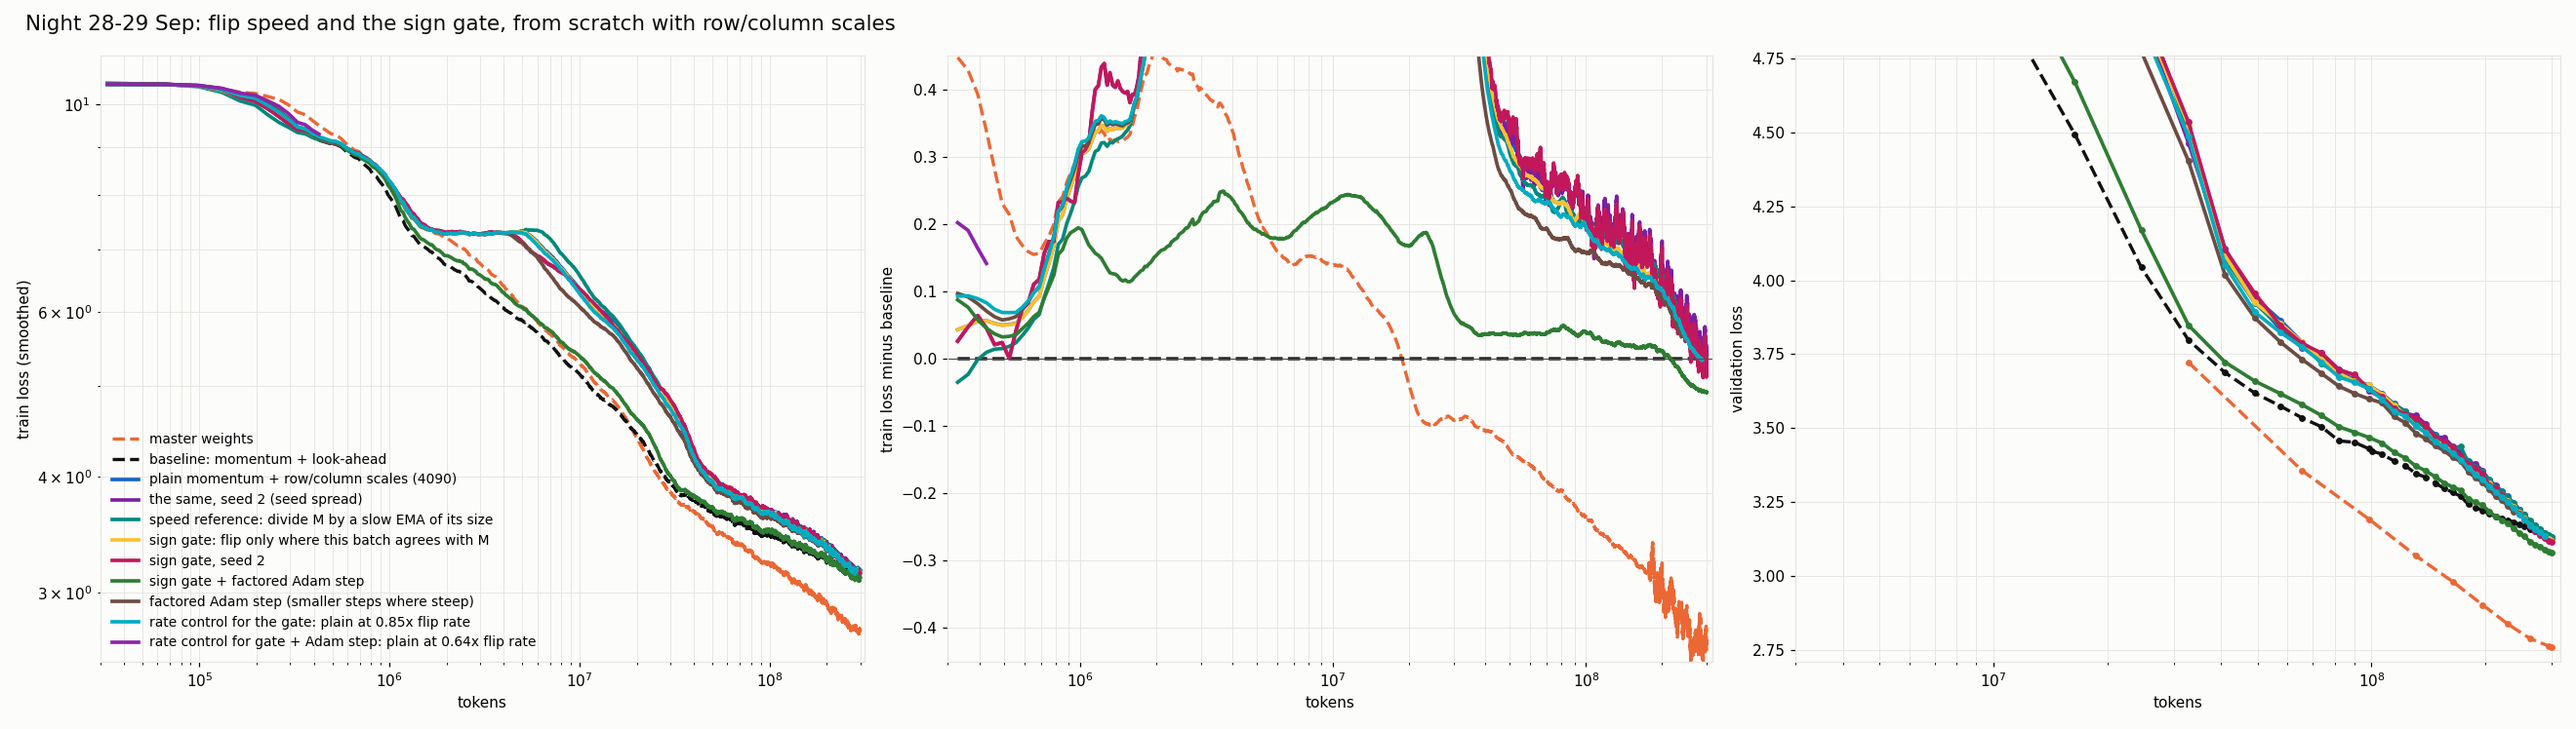
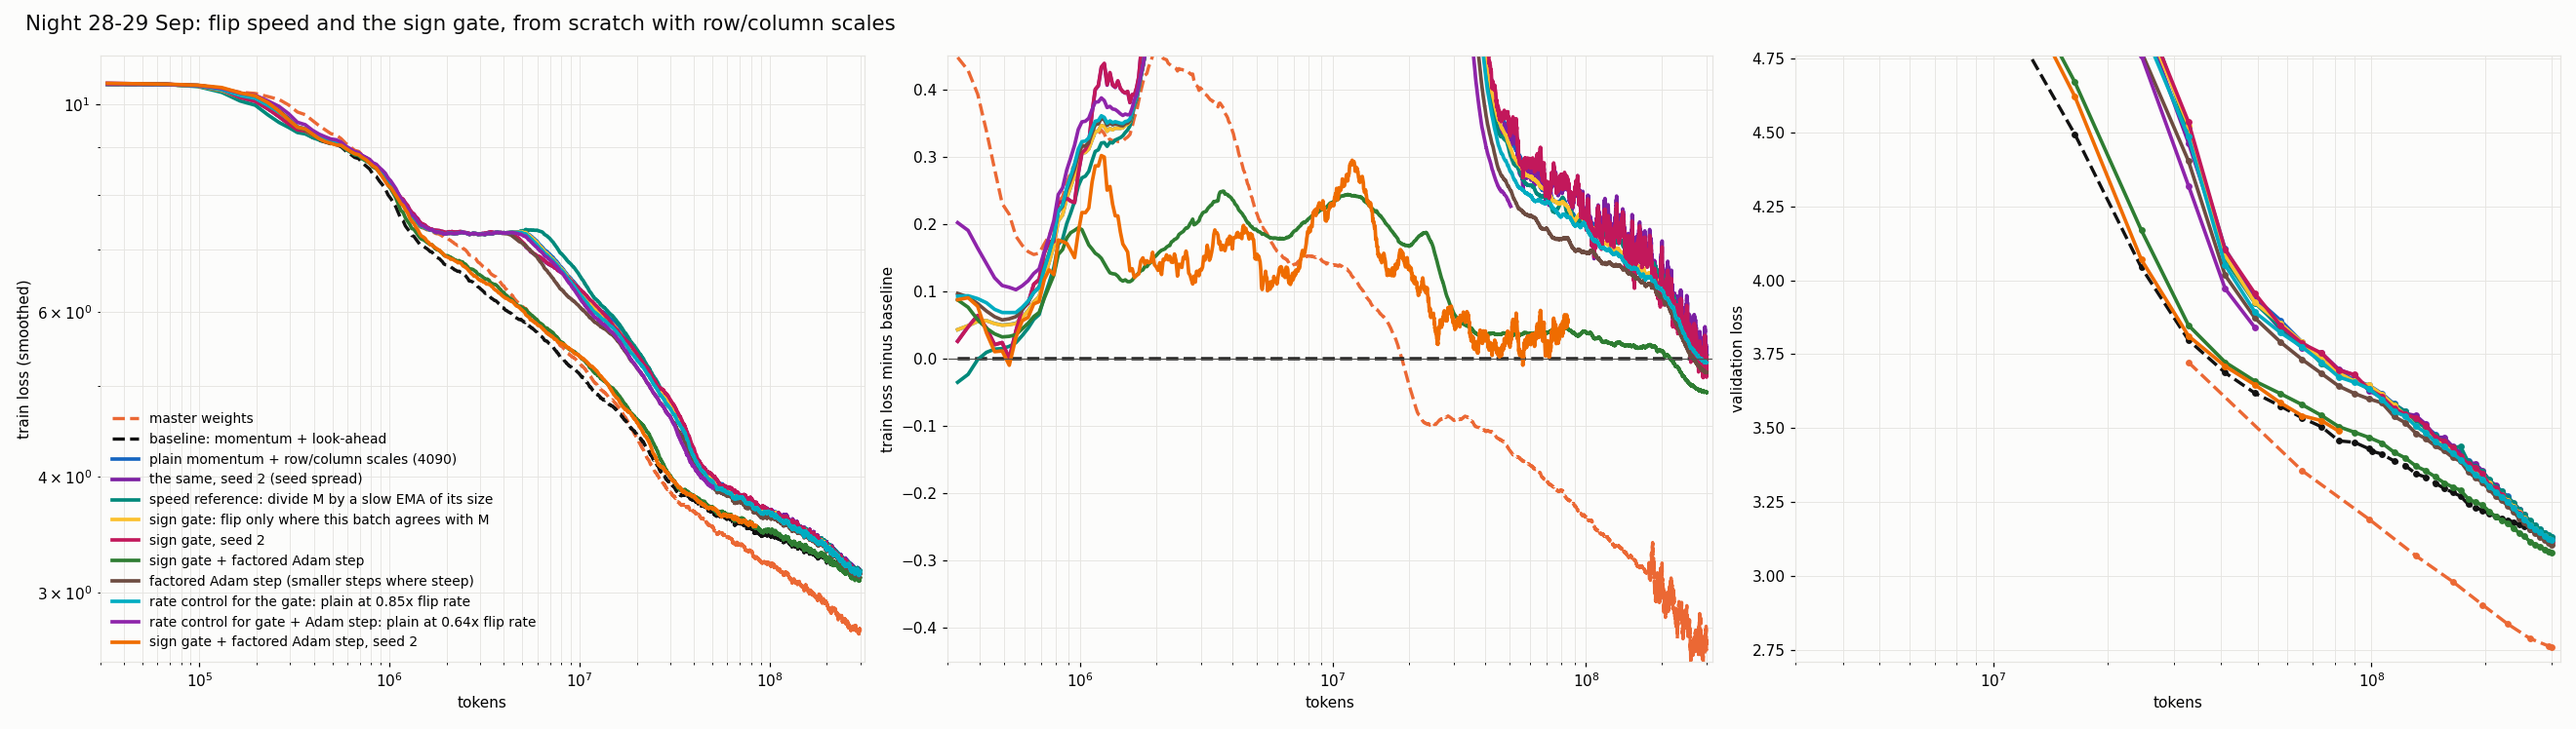
Night summary: Adam step 3.1063 at equal flips (real gain); gate = its rate control; gate+Adam 3.0773, controls running

diff --git a/docs/overview/index.html b/docs/overview/index.html
@@ -129,7 +129,7 @@ ul.plain{margin:0; padding-left:18px; display:flex; flex-direction:column; gap:4
 <div class="wrap">
 
 <header style="display:flex;flex-direction:column;gap:10px">
-  <span class="eyebrow">ternary-LLM · 110M model · wiki32k · updated 29 Sep 2026, 09:30</span>
+  <span class="eyebrow">ternary-LLM · 110M model · wiki32k · updated 29 Sep 2026, 10:45</span>
   <h1>Ternary Training Map</h1>
   <p class="lede">Training a model whose weights are only <span class="trits">{−1, 0, +1}</span> with no full-precision copy of them (optimizer state at most sublinear in parameter count). What we tried, what it showed, what is running, what we have not tried and what is still open.</p>
 </header>
@@ -142,7 +142,8 @@ ul.plain{margin:0; padding-left:18px; display:flex; flex-direction:column; gap:4
     <div class="best"><span class="v">2.9925</span><span class="l">ours, best: look-ahead + additive r16 + adapter weight decay + per-head temperature</span></div>
     <div><span class="v">3.082</span><span class="l">look-ahead + additive r4</span></div>
     <div><span class="v">3.077</span><span class="l"><b>no look-ahead, sign gate + factored Adam step + row/column scales</b> (from scratch; stateless-sublinear; rate control running)</span></div>
-    <div><span class="v">3.119</span><span class="l">no look-ahead, sign gate + row/column scales (from scratch; plain + scales 3.131, seed 2 3.127)</span></div>
+    <div><span class="v">3.106</span><span class="l">no look-ahead, factored Adam step + row/column scales (same flip count as plain: a real per-flip gain)</span></div>
+    <div><span class="v">3.117</span><span class="l">sign gate (2 seeds) = its rate control at 0.85× flips (3.121): the gate's gain is its lower flip count</span></div>
     <div><span class="v">3.111</span><span class="l">look-ahead on to 30M, off to 131M, on after</span></div>
     <div><span class="v">3.120</span><span class="l">no look-ahead, your momentum design (branch from 131M)</span></div>
     <div><span class="v">3.127</span><span class="l">baseline: momentum + look-ahead</span></div>
@@ -156,10 +157,10 @@ ul.plain{margin:0; padding-left:18px; display:flex; flex-direction:column; gap:4
   <h2>What is running where</h2>
   <div class="tbl"><table>
     <tr><th>machine</th><th>run</th><th>what</th><th>expected</th></tr>
-    <tr><td>4090</td><td class="mono">vnorm_rc_s0 → gatevnorm_rc_s0_seed2</td><td>gate + Adam step finished <b>3.0773</b>. Adam step alone: 3.235 vs 3.268 for rc_s0 at 229M. Then gate + Adam step, seed 2</td><td class="num">~09:50, ~12:15</td></tr>
-    <tr><td>pintail</td><td class="mono">rate085_rc_s0</td><td>the gate's rate control (plain at 0.85× flips): <b>level with the gate</b> (3.1468 vs 3.1459 at 279M; rc_s0 3.1580). The gate's gain looks like its lower flip count</td><td class="num">~09:45</td></tr>
-    <tr><td>shoveler</td><td class="mono">rate064_rc_s0</td><td>gate seed 2 finished <b>3.1138</b> (seed 0 3.1194). Now gate + Adam step's rate control (plain at 0.64× flips)</td><td class="num">~13:10</td></tr>
-    <tr><td>laptop</td><td class="mono">probes</td><td>gate run @5000: <b>no swing</b> inside training (lags all positive; momentum vs next gradient −0.04 to −0.07 vs −0.15 to −0.20 without the gate). Now rc_s0 @5000 and gate + Adam step @5000 with the per-weight analysis</td><td class="num">~09:10, ~10:30</td></tr>
+    <tr><td>4090</td><td class="mono">gatevnorm_rc_s0_seed2</td><td>Adam step alone finished <b>3.1063</b> at 0.98× flips. Now gate + Adam step, seed 2 (3.489 vs 3.504 seed 0 at 82M)</td><td class="num">~12:30</td></tr>
+    <tr><td>pintail</td><td class="mono">vnorm064_rc_s0</td><td>the Adam step at gate + Adam step's 0.64× flip count, without the gate: does the gate add anything?</td><td class="num">~14:20</td></tr>
+    <tr><td>shoveler</td><td class="mono">rate064_rc_s0</td><td>gate + Adam step's rate control: plain at 0.64× flips</td><td class="num">~13:10</td></tr>
+    <tr><td>laptop</td><td class="mono">-</td><td>probes done: the swing is inside rc_s0 and speedref_rc_s0 (45% of flips uphill); gone in the gate runs (momentum vs next gradient −0.04 to −0.08); per weight the momentum still lags (|M|/|T| 7–12 at a reversal)</td><td class="num">idle</td></tr>
   </table></div>
   <p class="meh" style="font-size:13px">Kept current in <code>docs/QUEUE.md</code>. No look-ahead in new runs unless there is a new reason.</p>
 </section>
@@ -197,7 +198,9 @@ ul.plain{margin:0; padding-left:18px; display:flex; flex-direction:column; gap:4
       <div class="node bad">Per weight: 45% of flips go uphill; momentum's sign is right on only 42% of weights; at a reversal it is 7× the gradient (~7 steps to turn); 22% never turn within 41 steps; 75% of the momentum's size is batch noise</div><div class="down">↓</div>
       <div class="node good"><b>Sign gate</b> (flip only where this batch agrees with M) removes the swing: −0.085 in 41 steps vs −0.011; Adam-style step −0.030; per-row speed −0.016</div><div class="down">↓</div>
       <div class="node">The swing is also inside a from-scratch run (rc_s0 @5000: −0.27 at lag 5; momentum −0.15 to −0.20 vs the next gradients)</div><div class="down">↓</div>
-      <div class="node lead">Found: without look-ahead the gate and the Adam-style step were never applied (wired only into the look-ahead path). Training now, from scratch</div>
+      <div class="node">Found: without look-ahead the gate and the Adam-style step were never applied (wired only into the look-ahead path)</div><div class="down">↓</div>
+      <div class="node bad">Gate in training: 3.117 (2 seeds), but plain at the same lower flip count gives 3.121: its gain is the rate</div><div class="down">↓</div>
+      <div class="node good"><b>Adam-style step: 3.106 at the same flip count</b> (real per-flip gain); with the gate 3.077 (0.64× flips; rate control running)</div>
     </div></div>
     <div class="thread"><h3>4 · Step size</h3><div class="chain">
       <div class="node good">¼ flip rate (branch): 0.16 better right away</div><div class="down">↓</div>

diff --git a/scripts/plots/plot_categories.py b/scripts/plots/plot_categories.py
@@ -94,7 +94,8 @@ CATS = {
         ("vnorm_rc_s0", "factored Adam step (smaller steps where steep)"),
         ("rate085_rc_s0", "rate control for the gate: plain at 0.85x flip rate"),
         ("rate064_rc_s0", "rate control for gate + Adam step: plain at 0.64x flip rate"),
-        ("gatevnorm_rc_s0_seed2", "sign gate + factored Adam step, seed 2")]),
+        ("gatevnorm_rc_s0_seed2", "sign gate + factored Adam step, seed 2"),
+        ("vnorm064_rc_s0", "factored Adam step at 0.64x flip rate (no gate)")]),
     "momentum_fixes_20M": ("Momentum fixes, 20M from-scratch screens", 2.2e7, [
         ("s20_base", "baseline seed 0"), ("s20_base_seed1", "baseline seed 1"), ("s20_base_seed2", "baseline seed 2"),
         ("s20_gate", "sign gate"), ("s20_vnorm99", "vnorm"), ("s20_gate_vnorm99", "gate + vnorm"),

diff --git a/docs/RUNS.md b/docs/RUNS.md
@@ -1498,3 +1498,21 @@ Swing tests at nola_lab @4500 (41 steps, 25% of coordinates; old rule: -0.0116 a
 - Probe `gatevnorm_rc_s0` @5000 (own rule): no swing (lags +0.31 / +0.15 / +0.13 / +0.08), momentum vs next gradient
   -0.07 to -0.08, 43.0% uphill, |M|/|T| 7.5 at a reversal, never follows 22.9%; held-out -0.0107 at 95k flips/step.
 - `rate064_rc_s0` (gate + vnorm's rate control) moved from the 4090 list to shoveler (idle since 08:53), started 09:30.
+
+### 29 Sep 10:45: night summary (from scratch, row/column scales, no look-ahead, 300M)
+
+| run | rule | flips vs rc_s0 | val @300M |
+|---|---|---|---|
+| `rc_s0` / `rc_s0_seed2` | plain rank-256 momentum | 1 | 3.1307 / 3.1273 |
+| `speedref_rc_s0` | per-layer slow speed reference | ~1 | 3.1315 |
+| `rate085_rc_s0` | plain, 0.85x peak flip rate | 0.85 | 3.1208 |
+| `gate_rc_s0` / `_seed2` | sign gate | 0.91 | 3.1194 / 3.1138 |
+| `vnorm_rc_s0` | factored Adam step (N + K floats per layer) | **0.98** | **3.1063** |
+| `gatevnorm_rc_s0` | sign gate + factored Adam step | 0.64 | **3.0773** |
+
+- The gate's gain is its lower flip count: the 0.85x rate control lands on it (3.1208 vs 3.117 mean).
+- The factored Adam step gains 0.024 at the same flip count: a real per-flip improvement (smaller steps across
+  steep directions, what the swing test pointed to: -0.030 vs -0.012 in 41 steps, swing weakened).
+- Gate + Adam step: -0.053. Running: its rate control `rate064_rc_s0` (shoveler, ~13:10), `vnorm064_rc_s0` = the
+  Adam step at the same 0.64x flips without the gate (pintail, ~14:20), its seed 2 (4090, ~12:30; 3.4893 vs 3.5043
+  seed 0 at step 2500).

diff --git a/docs/QUEUE.md b/docs/QUEUE.md
@@ -6,7 +6,7 @@ by the user with `bash ~/ternary-LLM/scripts/remote/start.sh SCRIPT`), **shovele
 PCs, at most two in use), **laptop**. Token counts are training tokens (32,768 per step at batch 16). From
 2026-09-27 on, new runs are without look-ahead.
 
-Last updated: 2026-09-29 09:30
+Last updated: 2026-09-29 10:45
 
 ## Night 28-29 Sep (planned 01:10, runs to ~10:00)
 
@@ -20,8 +20,8 @@ each run; edit the lists on the remote home, not by rsync from the laptop).
 
 | machine | now | next (list) | expected |
 |---|---|---|---|
-| 4090 | `gatevnorm_rc_s0` done **3.0773**; `vnorm_rc_s0` running (3.2354 vs 3.2682 at step 7000) | `gatevnorm_rc_s0_seed2` | ~09:50, ~12:15 |
-| pintail | `rate085_rc_s0` (the gate's rate control): 3.1468 vs gate 3.1459 at step 8500 | - | ~09:45 |
+| 4090 | `vnorm_rc_s0` done **3.1063** (0.98x flips); `gatevnorm_rc_s0_seed2` running | - | ~12:30 |
+| pintail | `rate085_rc_s0` done **3.1208** (= the gate); `vnorm064_rc_s0` (Adam step at 0.64x flips, no gate) started 10:45 | - | ~14:20 |
 | shoveler | `gate_rc_s0_seed2` done **3.1138**; `rate064_rc_s0` (gate + vnorm's rate control) started 09:30 | - | ~13:10 |
 | laptop | probes done (rc_s0 / speedref_rc_s0 @5000, @8000); now gate_rc_s0 @5000 (gate rule) and rc_s0 @5000 with per-weight analysis | - | ~07:50, ~09:10 |
 | 4090 (next to training) | swing tests: gate rate control (old rule x0.62), gravity 0.5, gradient units beta 0.8, gravity 0.8 (relaunched 03:28: first launch died silently) | - | ~03:55, ~04:20, ~04:45, ~05:10 |
